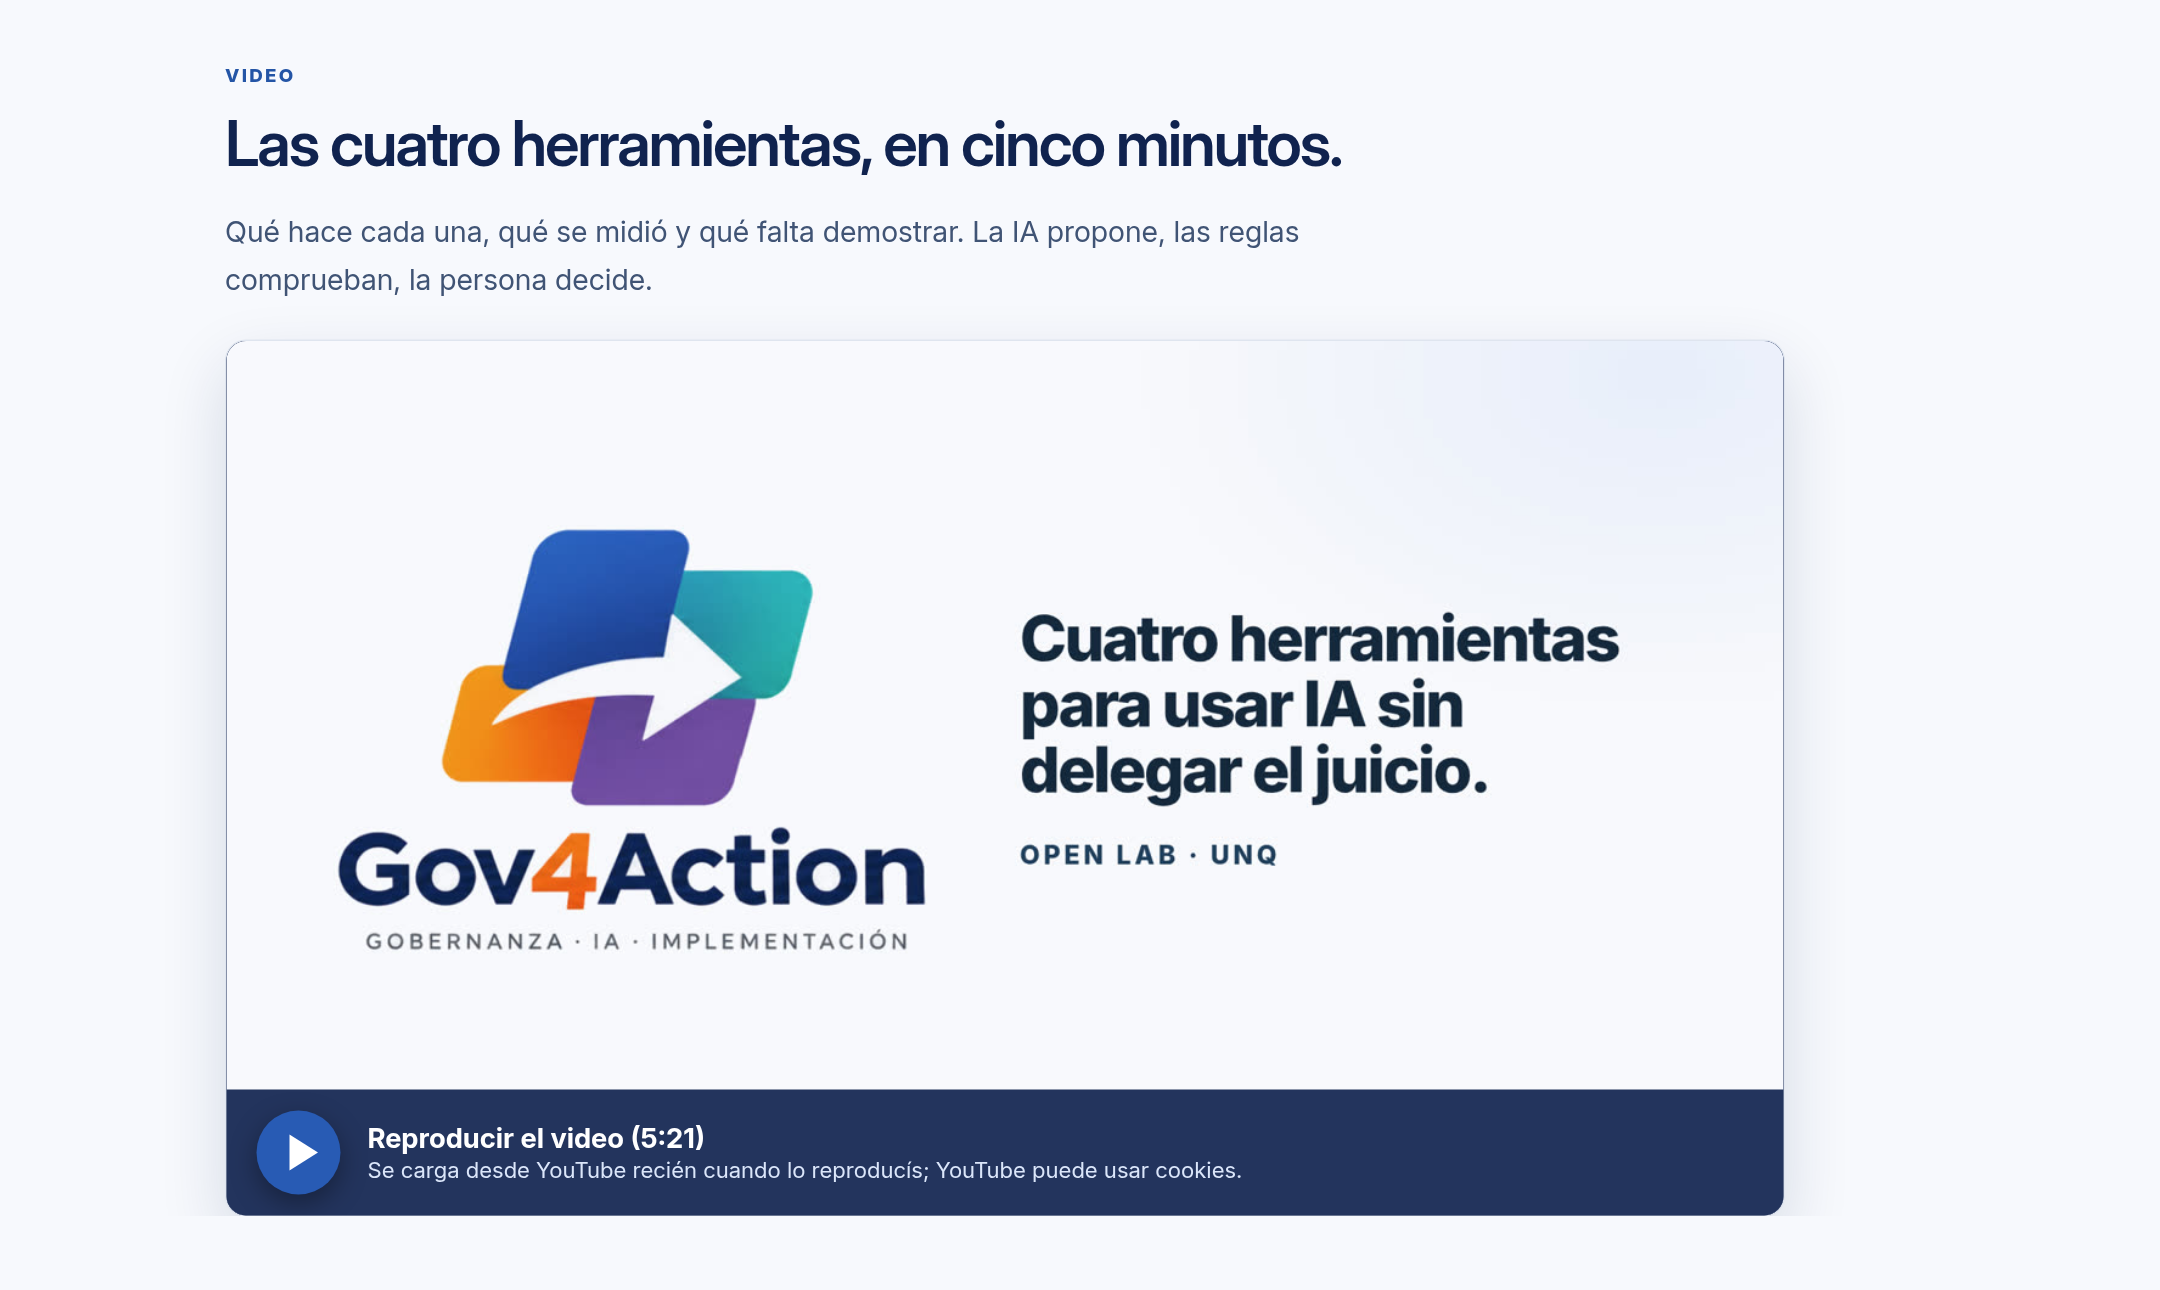
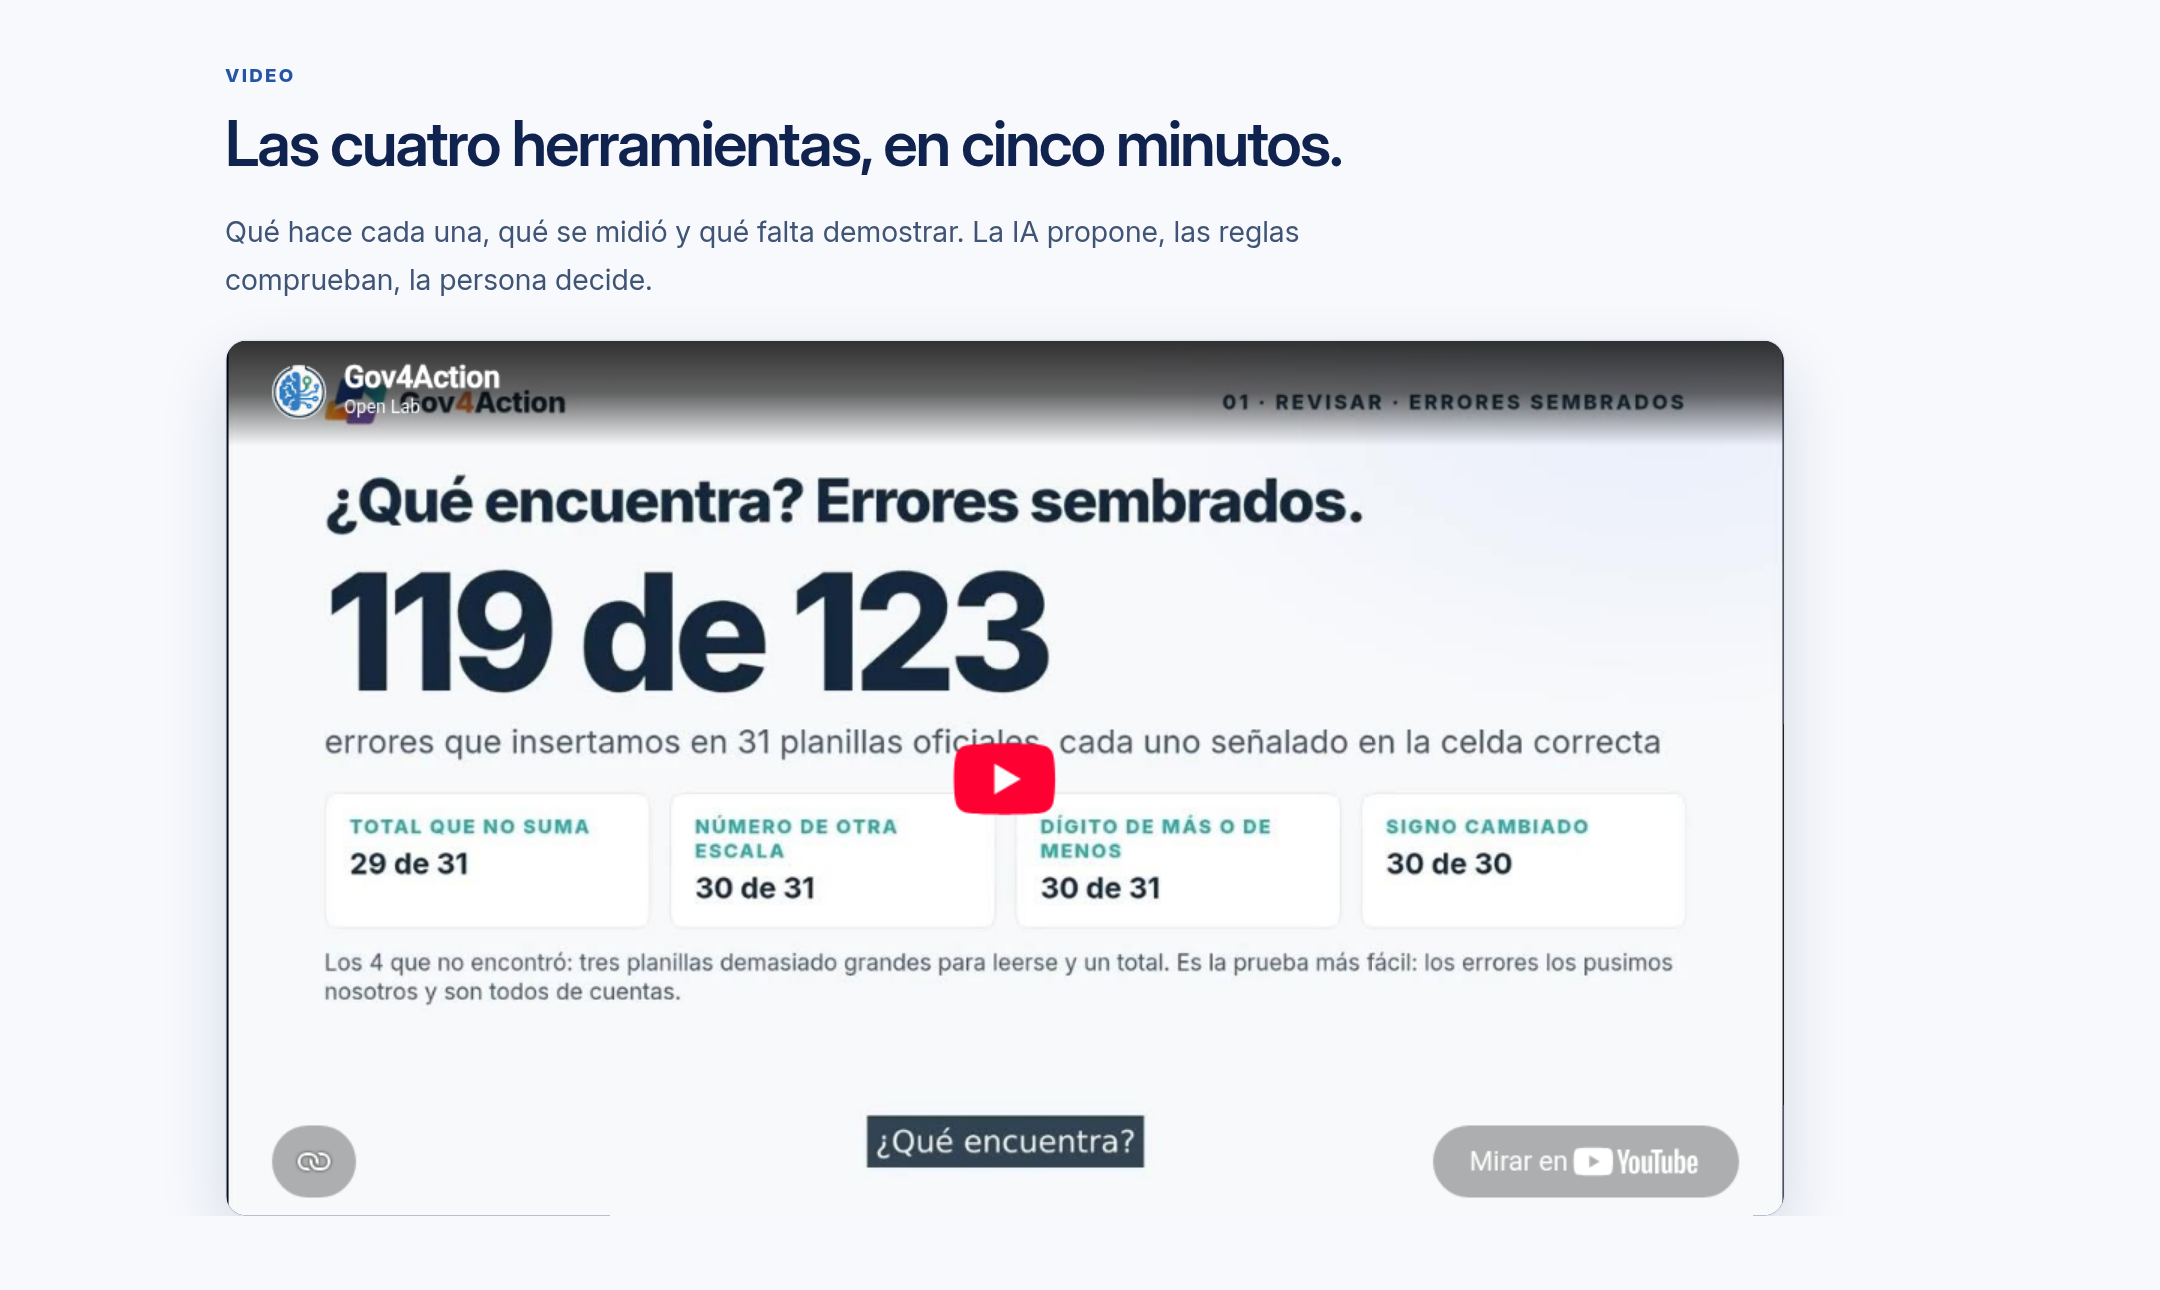
Ficha del BID: el video ahora está incrustado en la página de inicio
Cambia la captura del video (reproductor incrustado en lugar del botón) y su descripción en la lista de capturas.

Changed region(s): [[0.1551, 0.3721, 0.7755, 0.7752], [0.0931, 0.8372, 0.8375, 0.9612], [0.0931, 0.2481, 0.8375, 0.3411]]

diff --git a/docs/FICHA_BID.md b/docs/FICHA_BID.md
@@ -171,4 +171,4 @@ Archivos en [`docs/capturas/`](capturas/):
    la que una celda pasó de promedio ponderado a simple sin cambiar el resultado.
 7. `ficha.png` — criterios de uso y resultados de cada medición.
 8. `numeros.png` — lo que ya lograron las cuatro herramientas, con las cifras de uso al 14/11/2026 y las mediciones de Multilente al 15/11/2026 (119 de 123 errores sembrados señalados; 6 de 6 y 1 de 9 en errores reales ya conocidos), con la aclaración de que miden uso y señales, no impacto en las decisiones.
-9. `video.png` — el video «Gov4Action. Cuatro herramientas» en la página de inicio de gov4action.com: se carga desde YouTube recién cuando se lo reproduce.
+9. `video.png` — el video «Gov4Action. Cuatro herramientas» (5:21) incrustado en la página de inicio de gov4action.com, con el reproductor de YouTube en modo de privacidad mejorada.
